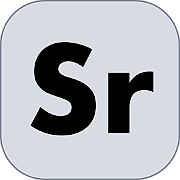
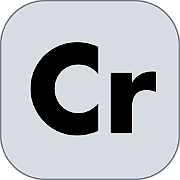
:boom: changing my name

Changed region(s): [[0.1667, 0.2222, 0.5556, 0.7778], [0.6944, 0.3889, 0.8889, 0.75], [0.5833, 0.3889, 0.6389, 0.75]]

diff --git a/src/strings/zh-tw.ts b/src/strings/zh-tw.ts
@@ -16,7 +16,7 @@ const zhTwRes: I18nResource = {
   socials_para: "社群媒體",
   asterisk_bad_at_gaming_span: "*不懂玩遊戲",
   via_span: (provider: string) => `透過${provider}`,
-  steve_reeds_blog_para: "Steve Reed的部落格",
+  steve_reeds_blog_para: "Caturday Reed的部落格",
   oops_para: "哎呀，出錯了",
   copy_failed_you_may_go_manual_para: "複製失敗，你可以手動複製以下內容",
   page_not_found_para: "找不到指定頁面",
@@ -24,7 +24,7 @@ const zhTwRes: I18nResource = {
   photo_para: "相片",
   loading_comments: "載入評論中…",
   steves_site_with_updates_and_articles_para:
-    "Steve的個人站，有動態和長篇幅博文",
+    "Caturday的個人站，有動態和長篇幅博文",
 };
 
 export default zhTwRes;

diff --git a/src/strings/zh.ts b/src/strings/zh.ts
@@ -16,7 +16,7 @@ const zhRes: I18nResource = {
   socials_para: "社交媒体",
   asterisk_bad_at_gaming_span: "*不懂玩游戏",
   via_span: (provider: string) => `通过${provider}`,
-  steve_reeds_blog_para: "Steve Reed的博客",
+  steve_reeds_blog_para: "Caturday Reed的博客",
   oops_para: "哎呀，出错了",
   copy_failed_you_may_go_manual_para: "复制失败，你可以手动复制以下内容",
   page_not_found_para: "找不到指定页面",
@@ -24,7 +24,7 @@ const zhRes: I18nResource = {
   photo_para: "照片",
   loading_comments: "加载评论中…",
   steves_site_with_updates_and_articles_para:
-    "Steve的个人站，有动态和长篇幅博文",
+    "Caturday的个人站，有动态和长篇幅博文",
 };
 
 export default zhRes;

diff --git a/src/strings/en.ts b/src/strings/en.ts
@@ -16,7 +16,7 @@ const enRes: I18nResource = {
   socials_para: "Socials",
   asterisk_bad_at_gaming_span: "*bad at gaming",
   via_span: (provider: string) => `via ${provider}`,
-  steve_reeds_blog_para: "Steve Reed's blog",
+  steve_reeds_blog_para: "Caturday Reed's blog",
   oops_para: "Oops",
   copy_failed_you_may_go_manual_para:
     "Copy failed. You may manually copy the content below.",
@@ -25,7 +25,7 @@ const enRes: I18nResource = {
   photo_para: "Photo",
   loading_comments: "Loading comments…",
   steves_site_with_updates_and_articles_para:
-    "Steve's personal site where they posts updates and long form blogs",
+    "Catruday's personal site where they posts updates and long form blogs",
 };
 
 export default enRes;

diff --git a/README.md b/README.md
@@ -1,4 +1,4 @@
-# Steve's Blog
+# Caturday's Blog
 
 ## Summary
 
